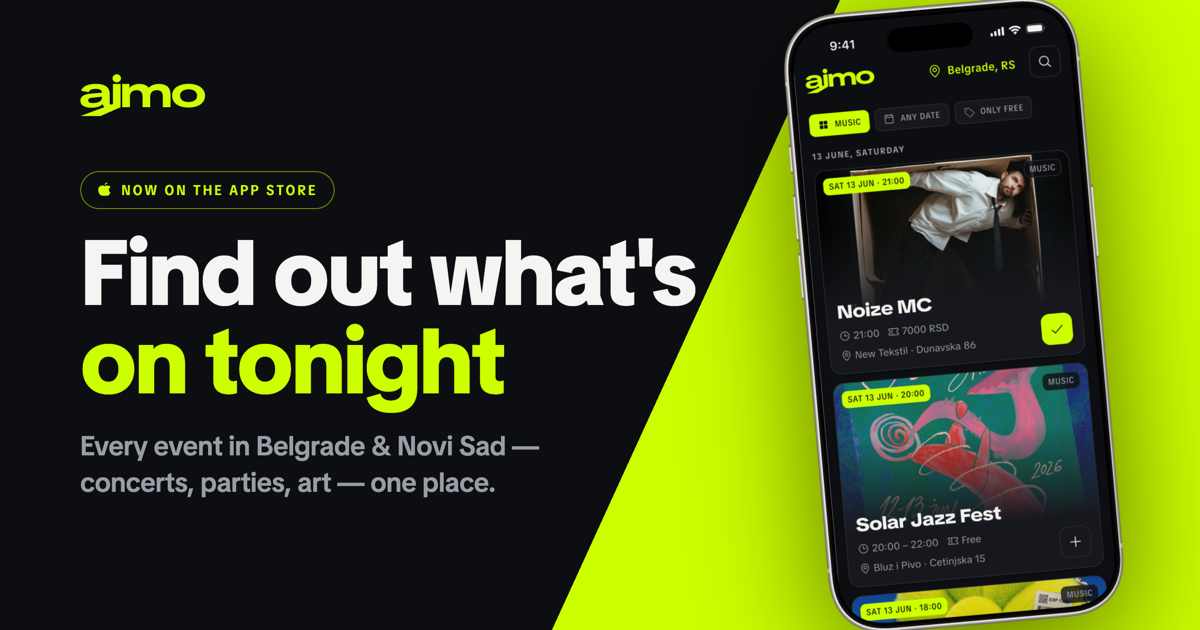
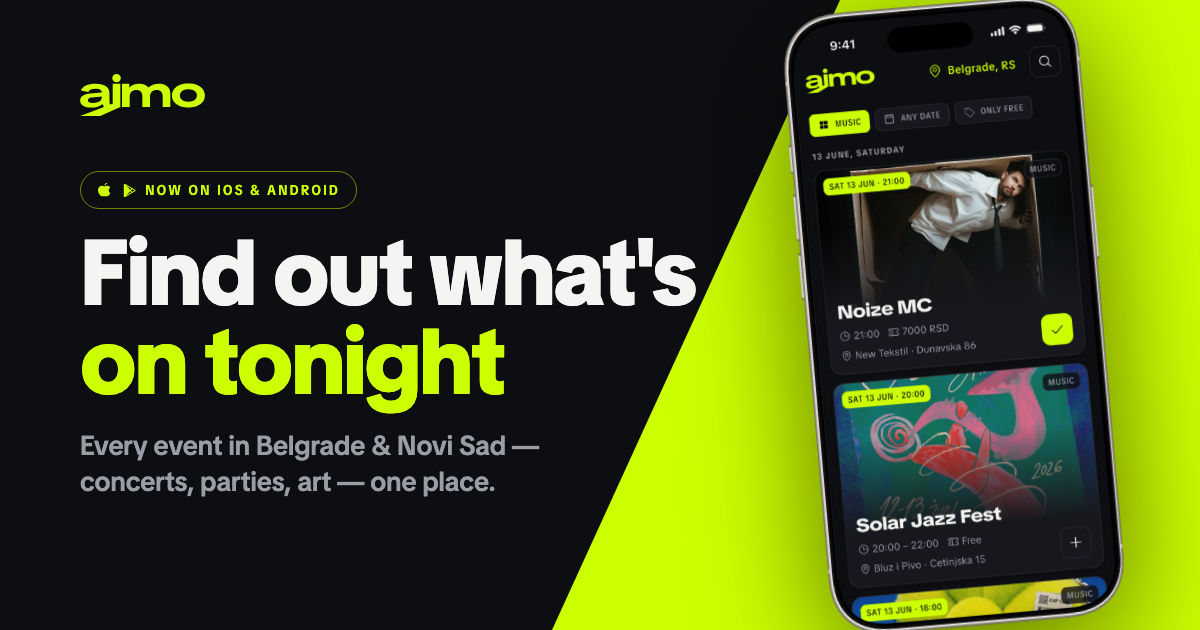
feat(landing): add Google Play alongside the App Store
ajmo is now on Android. Show both stores: hero pill reads
"Now on iOS & Android" with Apple and Google Play icons, the bottom
CTA gets a second "Get it on Google Play" button, and the header
"Download" scrolls to the CTA instead of linking to the App Store only.
Update meta/OG descriptions and regenerate og.png from og-preview.html.

diff --git a/index.html b/index.html
@@ -4,13 +4,13 @@
   <meta charset="UTF-8" />
   <meta name="viewport" content="width=device-width, initial-scale=1.0" />
   <title>ajmo — find out what’s on tonight · Belgrade & Novi Sad</title>
-  <meta name="description" content="ajmo is an events app for Belgrade and Novi Sad — concerts, parties, art, and more, all in one place. Now on the App Store." />
+  <meta name="description" content="ajmo is an events app for Belgrade and Novi Sad — concerts, parties, art, and more, all in one place. Now on the App Store and Google Play." />
   <meta name="theme-color" content="#0D0E11" />
   <link rel="icon" type="image/svg+xml" href="/favicon.svg" />
   <link rel="icon" type="image/png" href="/favicon.png" sizes="48x48" />
   <link rel="apple-touch-icon" href="/apple-touch-icon.png" />
   <meta property="og:title" content="ajmo — find out what’s on tonight" />
-  <meta property="og:description" content="Every event in your city, one place. Belgrade & Novi Sad. Now on the App Store." />
+  <meta property="og:description" content="Every event in your city, one place. Belgrade & Novi Sad. Now on the App Store and Google Play." />
   <meta property="og:type" content="website" />
   <meta property="og:url" content="https://ajmo.events" />
   <meta property="og:image" content="https://ajmo.events/og.png" />
@@ -19,7 +19,7 @@
   <meta property="og:image:alt" content="ajmo — find out what’s on tonight. Every event in Belgrade & Novi Sad, one place." />
   <meta name="twitter:card" content="summary_large_image" />
   <meta name="twitter:title" content="ajmo — find out what’s on tonight" />
-  <meta name="twitter:description" content="Every event in your city, one place. Belgrade & Novi Sad. Now on the App Store." />
+  <meta name="twitter:description" content="Every event in your city, one place. Belgrade & Novi Sad. Now on the App Store and Google Play." />
   <meta name="twitter:image" content="https://ajmo.events/og.png" />
   <link rel="stylesheet" href="/src/styles.css" />
 </head>
@@ -31,6 +31,9 @@
       </symbol>
       <symbol id="apple" viewBox="0 0 256 256">
         <path d="M128.23,30A40,40,0,0,1,167,0h1a8,8,0,0,1,0,16h-1a24,24,0,0,0-23.24,18,8,8,0,1,1-15.5-4ZM223.3,169.59a8.07,8.07,0,0,0-2.8-3.4C203.53,154.53,200,134.64,200,120c0-17.67,13.47-33.06,21.5-40.67a8,8,0,0,0,0-11.62C208.82,55.74,187.82,48,168,48a72.23,72.23,0,0,0-40,12.13,71.56,71.56,0,0,0-90.71,9.09A74.63,74.63,0,0,0,16,123.4a127,127,0,0,0,40.14,89.73A39.8,39.8,0,0,0,83.59,224h87.68a39.84,39.84,0,0,0,29.12-12.57,125,125,0,0,0,17.82-24.6C225.23,174,224.33,172,223.3,169.59Z"/>
+      </symbol>
+      <symbol id="play" viewBox="0 0 256 256">
+        <path d="M239.82,114.18,72,18.16a16,16,0,0,0-16.12,0A15.68,15.68,0,0,0,48,31.87V224.13a15.68,15.68,0,0,0,7.92,13.67,16,16,0,0,0,16.12,0l167.78-96a15.76,15.76,0,0,0,0-27.64ZM160,139.31l18.92,18.92-88.5,50.66ZM90.4,47.1l88.53,50.67L160,116.69ZM193.31,150l-22-22,22-22,38.43,22Z"/>
       </symbol>
     </defs>
   </svg>
@@ -44,15 +47,18 @@
       <a href="/terms">Terms of Service</a>
       <a href="/venues#contact">Contact</a>
     </nav>
-    <a class="nav-cta" href="https://apps.apple.com/rs/app/ajmo-events-in-serbia/id6807155303">Download</a>
+    <a class="nav-cta" href="#cta">Download</a>
   </header>
 
   <main>
     <section class="hero" id="hero">
       <div class="hero-pin">
-        <span class="ghost-pill apple-pill">
-          <svg class="apple-icon" viewBox="0 0 256 256" aria-hidden="true"><use href="#apple" /></svg>
-          Now on the App Store
+        <span class="ghost-pill">
+          <span class="store-icons">
+            <svg class="store-icon" viewBox="0 0 256 256" aria-hidden="true"><use href="#apple" /></svg>
+            <svg class="store-icon" viewBox="0 0 256 256" aria-hidden="true"><use href="#play" /></svg>
+          </span>
+          Now on iOS &amp; Android
         </span>
         <h1 class="hero-title">Find out what’s<br />on tonight</h1>
         <img class="hero-phone" src="/img/phone-hero.png" alt="ajmo app — tonight’s events feed for Belgrade" width="492" height="1020" />
@@ -98,8 +104,12 @@
       <h2 class="cta-title">Stop scrolling.<br /><span class="lime-text">Start going.</span></h2>
       <div class="cta-form">
         <a class="download" href="https://apps.apple.com/rs/app/ajmo-events-in-serbia/id6807155303">
-          <svg class="apple-icon" viewBox="0 0 256 256" aria-hidden="true"><use href="#apple" /></svg>
+          <svg class="store-icon" viewBox="0 0 256 256" aria-hidden="true"><use href="#apple" /></svg>
           Download on the App Store
+        </a>
+        <a class="download" href="https://play.google.com/store/apps/details?id=events.ajmo.app">
+          <svg class="store-icon" viewBox="0 0 256 256" aria-hidden="true"><use href="#play" /></svg>
+          Get it on Google Play
         </a>
       </div>
     </section>

diff --git a/src/styles.css b/src/styles.css
@@ -97,7 +97,8 @@ a { color: inherit; text-decoration: none; }
   padding: 9px 16px;
   white-space: nowrap;
 }
-.apple-icon { width: 15px; height: 15px; fill: var(--text-2); }
+.store-icon { width: 15px; height: 15px; fill: var(--text-2); }
+.store-icons { display: inline-flex; gap: 6px; }
 
 /* ---------- nav ---------- */
 .nav {
@@ -294,7 +295,7 @@ a { color: inherit; text-decoration: none; }
   background: var(--bg);
   display: grid;
   grid-template-columns: minmax(0, 1.1fr) minmax(0, 0.9fr);
-  /* copy stacks on the left (headline over the download button), phone spans right */
+  /* copy stacks on the left (headline over the store buttons), phone spans right */
   grid-template-areas:
     'title phone'
     'form  phone';
@@ -305,7 +306,7 @@ a { color: inherit; text-decoration: none; }
   border-top: 1px solid var(--border);
 }
 .cta-title { grid-area: title; align-self: end; font-size: clamp(48px, 6.5vw, 96px); }
-.cta-form { grid-area: form; align-self: start; display: flex; flex-direction: column; align-items: flex-start; gap: 14px; }
+.cta-form { grid-area: form; align-self: start; display: flex; flex-wrap: wrap; gap: 12px; }
 .cta-phone { grid-area: phone; width: clamp(260px, 30vw, 437px); height: auto; justify-self: end; }
 
 .download {
@@ -324,7 +325,7 @@ a { color: inherit; text-decoration: none; }
   padding: 14px 24px;
 }
 .download:hover { background: var(--lime-pressed); }
-.download .apple-icon { fill: currentColor; transform: translateY(-1px); }
+.download .store-icon { fill: currentColor; transform: translateY(-1px); }
 
 /* ---------- footer ---------- */
 .footer {
@@ -360,7 +361,7 @@ a { color: inherit; text-decoration: none; }
   .hero-pin > .ghost-pill { margin-bottom: 4px; }
   /* smaller hero phone so its peek isn't harshly cut by the fold */
   .hero-phone { width: clamp(190px, 54vw, 230px); }
-  /* CTA: phone on top, then the headline, download button last */
+  /* CTA: phone on top, then the headline, store buttons last (stacked) */
   .cta {
     grid-template-columns: 1fr;
     grid-template-areas: 'phone' 'title' 'form';

diff --git a/public/og-preview.html b/public/og-preview.html
@@ -92,7 +92,8 @@
 
       <span class="pill">
         <svg viewBox="0 0 256 256"><path d="M128.23,30A40,40,0,0,1,167,0h1a8,8,0,0,1,0,16h-1a24,24,0,0,0-23.24,18,8,8,0,1,1-15.5-4ZM223.3,169.59a8.07,8.07,0,0,0-2.8-3.4C203.53,154.53,200,134.64,200,120c0-17.67,13.47-33.06,21.5-40.67a8,8,0,0,0,0-11.62C208.82,55.74,187.82,48,168,48a72.23,72.23,0,0,0-40,12.13,71.56,71.56,0,0,0-90.71,9.09A74.63,74.63,0,0,0,16,123.4a127,127,0,0,0,40.14,89.73A39.8,39.8,0,0,0,83.59,224h87.68a39.84,39.84,0,0,0,29.12-12.57,125,125,0,0,0,17.82-24.6C225.23,174,224.33,172,223.3,169.59Z"/></svg>
-        Now on the App Store
+        <svg viewBox="0 0 256 256"><path d="M239.82,114.18,72,18.16a16,16,0,0,0-16.12,0A15.68,15.68,0,0,0,48,31.87V224.13a15.68,15.68,0,0,0,7.92,13.67,16,16,0,0,0,16.12,0l167.78-96a15.76,15.76,0,0,0,0-27.64ZM160,139.31l18.92,18.92-88.5,50.66ZM90.4,47.1l88.53,50.67L160,116.69ZM193.31,150l-22-22,22-22,38.43,22Z"/></svg>
+        Now on iOS &amp; Android
       </span>
 
       <h1>Find out what's<br /><span class="lime">on tonight</span></h1>
